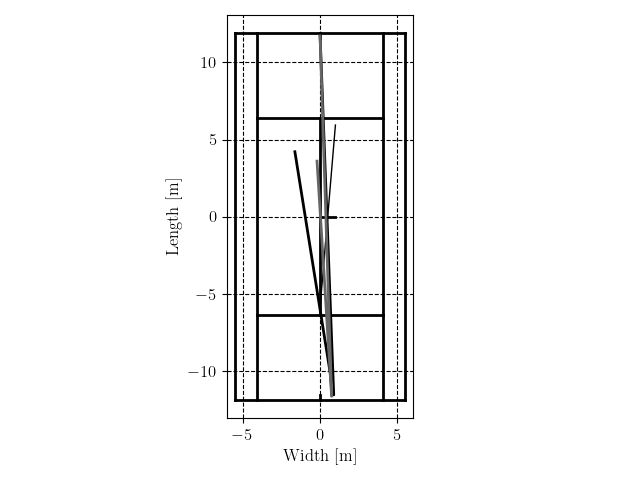
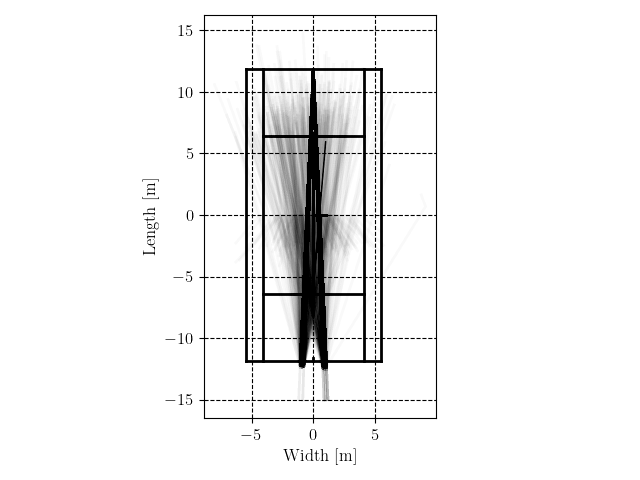
Fix export issue with None, update plots

diff --git a/vrgaze/tennis/services/io/export.py b/vrgaze/tennis/services/io/export.py
@@ -1,7 +1,8 @@
 import csv
 import dataclasses
+import math
 from dataclasses import field, dataclass
-from typing import List
+from typing import List, Optional
 
 from vrgaze.tennis.models.common import Visitable, Visitor
 from vrgaze.tennis.models.balleventmodels import FirstBounceEvent, BallHitFrontWall, SecondBounceEvent
@@ -16,18 +17,18 @@ class TrialExportData:
 	BlockNumber: str
 	TestID: str
 	IsValid: bool
-	FirstBounceTimestamp: float
-	FirstBouncePositionX: float
-	FirstBouncePositionY: float
-	FirstBouncePositionZ: float
-	BallLandingPositionX: float
-	BallLandingPositionY: float
-	BallLandingPositionZ: float
-	BallDistanceToTarget: float
-	SaccadeTimestamp: float
-	SaccadeAngleAmplitude: float
-	AngleBallToGazeAtSaccadeStart: float
-	AngleBallToGazeAtSaccadeEnd: float
+	FirstBounceTimestamp: Optional[float]
+	FirstBouncePositionX: Optional[float]
+	FirstBouncePositionY: Optional[float]
+	FirstBouncePositionZ: Optional[float]
+	BallLandingPositionX: Optional[float]
+	BallLandingPositionY: Optional[float]
+	BallLandingPositionZ: Optional[float]
+	BallDistanceToTarget: Optional[float]
+	SaccadeTimestamp: Optional[float]
+	SaccadeAngleAmplitude: Optional[float]
+	AngleBallToGazeAtSaccadeStart: Optional[float]
+	AngleBallToGazeAtSaccadeEnd: Optional[float]
 
 
 @dataclass
@@ -48,15 +49,29 @@ class CSVWriter(Visitor):
 
 		if len(second_bounces) == 0:
 			second_bounce = None
+		else:
+			second_bounce = second_bounces[0]
 
 		is_trial_valid = True
 		hit_front_wall = [event for event in trial.ball_events if isinstance(event, BallHitFrontWall)]
 		if len(hit_front_wall) > 0:
 			hit_front_wall_timestamp = hit_front_wall[0].timestamp_start
-			if (second_bounce != None) & (second_bounce.timestamp > hit_front_wall_timestamp):
-				is_trial_valid = False
+			if second_bounce != None:
+				if second_bounce.timestamp_start > hit_front_wall_timestamp:
+					is_trial_valid = False
 
 		predictive_saccade_of_interest = [sac for sac in predictive_saccades if sac.is_within_bounce_window]
+
+		if trial.result_location_x == None:
+			result_x = None
+			result_y = None
+			result_z = None
+			ball_distance_to_target = None
+		else:
+			result_x = f"{trial.result_location_x:.3f}"
+			result_y = f"{trial.result_location_y:.3f}"
+			result_z = f"{trial.result_location_z:.3f}"
+			ball_distance_to_target = f"{trial.distance_to_closest_target:.3f}"
 
 		if len(predictive_saccade_of_interest) == 0:
 			trial_export_data = TrialExportData(
@@ -70,10 +85,10 @@ class CSVWriter(Visitor):
 				FirstBouncePositionX=f"{first_bounce.frame.ball_position_x:.3f}",
 				FirstBouncePositionY=f"{first_bounce.frame.ball_position_y:.3f}",
 				FirstBouncePositionZ=f"{first_bounce.frame.ball_position_z:.3f}",
-				BallLandingPositionX=f"{trial.result_location_x:.3f}",
-				BallLandingPositionY=f"{trial.result_location_y:.3f}",
-				BallLandingPositionZ=f"{trial.result_location_z:.3f}",
-				BallDistanceToTarget=f"{trial.distance_to_closest_target:.3f}",
+				BallLandingPositionX=result_x,
+				BallLandingPositionY=result_y,
+				BallLandingPositionZ=result_z,
+				BallDistanceToTarget=ball_distance_to_target,
 				SaccadeTimestamp=None,
 				SaccadeAngleAmplitude=None,
 				AngleBallToGazeAtSaccadeStart=None,
@@ -93,10 +108,10 @@ class CSVWriter(Visitor):
 				FirstBouncePositionX=f"{first_bounce.frame.ball_position_x:.3f}",
 				FirstBouncePositionY=f"{first_bounce.frame.ball_position_y:.3f}",
 				FirstBouncePositionZ=f"{first_bounce.frame.ball_position_z:.3f}",
-				BallLandingPositionX=f"{trial.result_location_x:.3f}",
-				BallLandingPositionY=f"{trial.result_location_y:.3f}",
-				BallLandingPositionZ=f"{trial.result_location_z:.3f}",
-				BallDistanceToTarget=f"{trial.distance_to_closest_target:.3f}",
+				BallLandingPositionX=result_x,
+				BallLandingPositionY=result_y,
+				BallLandingPositionZ=result_z,
+				BallDistanceToTarget=ball_distance_to_target,
 				SaccadeTimestamp=f"{saccade.timestamp_start:.3f}",
 				SaccadeAngleAmplitude=f"{saccade.angle_amplitude:.3f}",
 				AngleBallToGazeAtSaccadeStart=f"{saccade.angle_start:.3f}",
@@ -111,6 +126,7 @@ class CSVWriter(Visitor):
 
 	def save(self, filepath):
 		dict_data = []
+
 		for data_point in self.data:
 			dict_data.append(dataclasses.asdict(data_point))
 

diff --git a/vrgaze/tennis/services/plots/plot_3d.py b/vrgaze/tennis/services/plots/plot_3d.py
@@ -2,7 +2,7 @@ from matplotlib import pyplot as plt
 
 from vrgaze.tennis import ExperimentalData
 from vrgaze.tennis.models.datamodel import Trajectory
-from vrgaze.tennis.models.gazeeventmodels import PredictiveSaccade
+from vrgaze.tennis.services.plots.trial_enumerator import TrialEnumerator
 
 
 def plot_3d(data: ExperimentalData) -> plt:
@@ -17,18 +17,23 @@ def plot_3d(data: ExperimentalData) -> plt:
 		>>> plot.savefig("plot_3d.png")
 	"""
 
-	ax = plt.axes(projection='3d')
-	greys = ['#000000', '#333333', '#666666', '#999999']
-	ax.prop_cycle = 'cycler(color, ' + str(greys) + ')'
-
 	trajectories = []
-	for trial in data.conditions[0].participants[0].trials:
+	enumerator = TrialEnumerator()
+	data.process(enumerator)
+	for trial in enumerator.trials:
 		width = [frame.ball_position_x for frame in trial.frames]
 		length = [frame.ball_position_z for frame in trial.frames]
 		height = [frame.ball_position_y for frame in trial.frames]
 		trajectories.append(Trajectory(length, height, width))
+
+	number_of_trajectories = len(trajectories)
+	alpha = 1 / number_of_trajectories
+	if number_of_trajectories > 100:
+		alpha = 0.01
+
+	ax = plt.axes(projection='3d')
 	for trajectory in trajectories:
-		ax.plot3D(trajectory.width, trajectory.length, trajectory.height)
+		ax.plot3D(trajectory.width, trajectory.length, trajectory.height, c='black', alpha=alpha)
 
 	half_width = 10.97 / 2
 	half_length = 23.77 / 2
@@ -63,20 +68,6 @@ def plot_3d(data: ExperimentalData) -> plt:
 	# net posts
 	ax.plot([-half_net_width, -half_net_width], [0, 0], [0, 1.065], color='black')
 	ax.plot([half_net_width, half_net_width], [0, 0], [0, 1.065], color='black')
-
-	for trial in data.conditions[0].participants[0].trials:
-		predictive_saccades = trial.gaze_events
-		for saccade in predictive_saccades:
-			if isinstance(saccade, PredictiveSaccade):
-				start_x = saccade.end_frame.ball_position_x
-				start_y = saccade.end_frame.ball_position_z
-				start_z = saccade.end_frame.ball_position_y
-				ax.scatter3D(start_x, start_y, start_z, color='green', marker='o', s=20, alpha=0.5)
-				end_x = saccade.frame.ball_position_x
-				end_y = saccade.frame.ball_position_z
-				end_z = saccade.frame.ball_position_y
-				# filled point green at end
-				ax.scatter3D(end_x, end_y, end_z, color='green', marker='o', s=20, alpha=1)
 
 	ax.set_aspect('equal')
 	ax.set_zlim(bottom=0)

diff --git a/vrgaze/tennis/services/plots/plot_birdview.py b/vrgaze/tennis/services/plots/plot_birdview.py
@@ -2,6 +2,7 @@ from matplotlib import pyplot as plt
 
 from vrgaze.tennis import ExperimentalData
 from vrgaze.tennis.models.datamodel import Trajectory
+from vrgaze.tennis.services.plots.trial_enumerator import TrialEnumerator
 
 
 def plot_birdview(data: ExperimentalData):
@@ -41,12 +42,19 @@ def plot_birdview(data: ExperimentalData):
 	ax.plot([-half_net_width, half_net_width], color='black', linewidth=1)
 
 	trajectories = []
-	for trial in data.conditions[0].participants[0].trials:
+	enumerator = TrialEnumerator()
+	data.process(enumerator)
+	for trial in enumerator.trials:
 		length = [frame.ball_position_x for frame in trial.frames]
 		width = [frame.ball_position_z for frame in trial.frames]
 		trajectories.append(Trajectory(length, [], width))
 
+	number_of_trajectories = len(trajectories)
+	alpha = 1 / number_of_trajectories
+	if number_of_trajectories > 100:
+		alpha = 0.01
+
 	for trajectory in trajectories:
-		plt.plot(trajectory.length, trajectory.width)
+		plt.plot(trajectory.length, trajectory.width, c='black', alpha=alpha)
 
 	return plt

diff --git a/vrgaze/tennis/services/plots/plot_side.py b/vrgaze/tennis/services/plots/plot_side.py
@@ -2,6 +2,7 @@ from matplotlib import pyplot as plt
 
 from vrgaze.tennis import ExperimentalData
 from vrgaze.tennis.models.datamodel import Trajectory
+from vrgaze.tennis.services.plots.trial_enumerator import TrialEnumerator
 
 
 def plot_side(data: ExperimentalData):
@@ -15,11 +16,19 @@ def plot_side(data: ExperimentalData):
 	plt.plot([0, 0], [0, 1.065], color="black", linewidth=2)
 
 	trajectories = []
-	for trial in data.conditions[0].participants[0].trials:
+	enumerator = TrialEnumerator()
+	data.process(enumerator)
+	for trial in enumerator.trials:
 		length = [frame.ball_position_z for frame in trial.frames]
 		height = [frame.ball_position_y for frame in trial.frames]
 		trajectories.append(Trajectory(length, height, []))
+
+	number_of_trajectories = len(trajectories)
+	alpha = 1 / number_of_trajectories
+	if number_of_trajectories > 100:
+		alpha = 0.01
+
 	for trajectory in trajectories:
-		plt.plot(trajectory.length, trajectory.height)
+		plt.plot(trajectory.length, trajectory.height, c='black', alpha=alpha)
 
 	return plt

diff --git a/vrgaze/tennis/services/io/read.py b/vrgaze/tennis/services/io/read.py
@@ -78,7 +78,15 @@ class Reader:
 					result_location_x = float(last_line[14])
 					result_location_y = float(last_line[15])
 					result_location_z = float(last_line[16])
-					distance_to_closest_target = float(last_line[18])
+
+					if result_location_x == 99999.0:
+						result_location_x = None
+						result_location_y = None
+						result_location_z = None
+						distance_to_closest_target = None
+
+					else:
+						distance_to_closest_target = float(last_line[18])
 
 					trials.append(
 						Trial(

diff --git a/vrgaze/tennis/services/plots/trial_enumerator.py b/vrgaze/tennis/services/plots/trial_enumerator.py
@@ -1,0 +1,14 @@
+from dataclasses import dataclass
+
+from vrgaze.tennis.models.common import Visitor, Visitable
+
+
+@dataclass
+class TrialEnumerator(Visitor):
+	trials = []
+
+	def visit_with_context(self, trial: Visitable, condition_name: str):
+		pass
+
+	def visit(self, trial: Visitable):
+		self.trials.append(trial)

diff --git a/setup.py b/setup.py
@@ -2,7 +2,7 @@ from setuptools import setup, find_packages
 
 setup(
 	name='vrgaze',
-	version="1.4.23",
+	version="1.5.24",
 	url='https://github.com/vrijeuniversiteit/vrgaze.git',
 	author='Daniel Müller',
 	author_email='d.muller at vu.nl',
